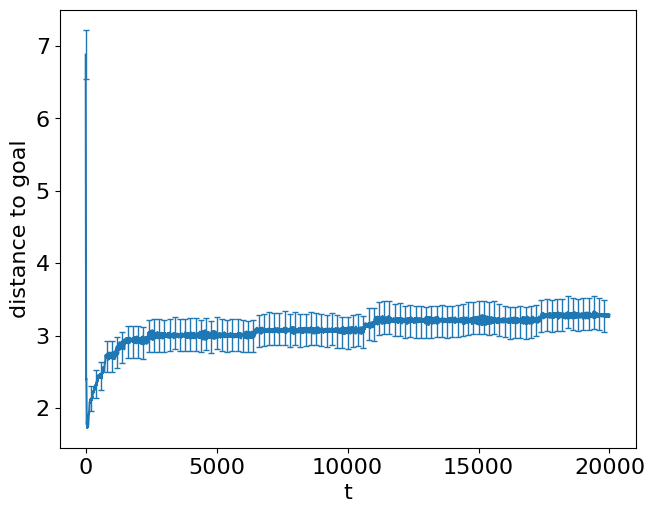
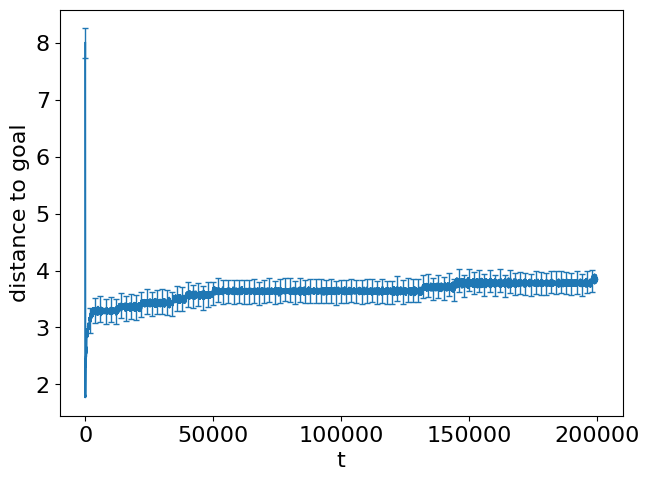
aligned script

diff --git a/main.py b/main.py
@@ -28,7 +28,18 @@ def main(args):
     boid_swarm_adjuster.set_strategy(boid_swarm_adjuster.modify_n)
 
     # BoidSimulationOptions
-    simulation_options = BoidSimulationOptions(boid_swarm_adjuster=boid_swarm_adjuster)
+    if args.radiusmultiplier is not None:
+        simulation_options = BoidSimulationOptions(
+            boid_swarm_adjuster=boid_swarm_adjuster,
+            radius_multiplier=args.radiusmultiplier,
+        )
+    else:
+        simulation_options = BoidSimulationOptions(
+            boid_swarm_adjuster=boid_swarm_adjuster
+        )
+
+    if args.overridefraction is None and args.overrideentities is None:
+        simulation_options.boid_swarm_adjuster = None
 
     if args.simulationparameter is not None:
         simulation_options.simulation_parameter = args.simulationparameter
@@ -113,4 +124,5 @@ if __name__ == "__main__":
             "none",
         ],
     )
+    parser.add_argument("-k", "--radiusmultiplier", type=float)
     main(parser.parse_args())
